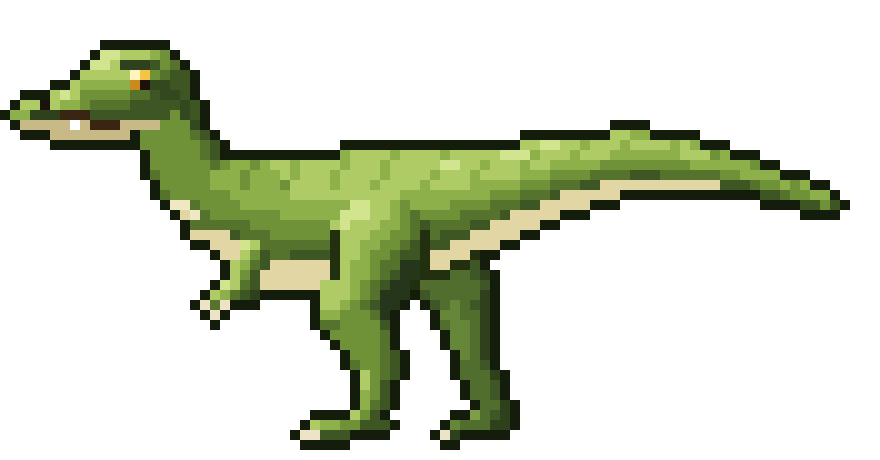
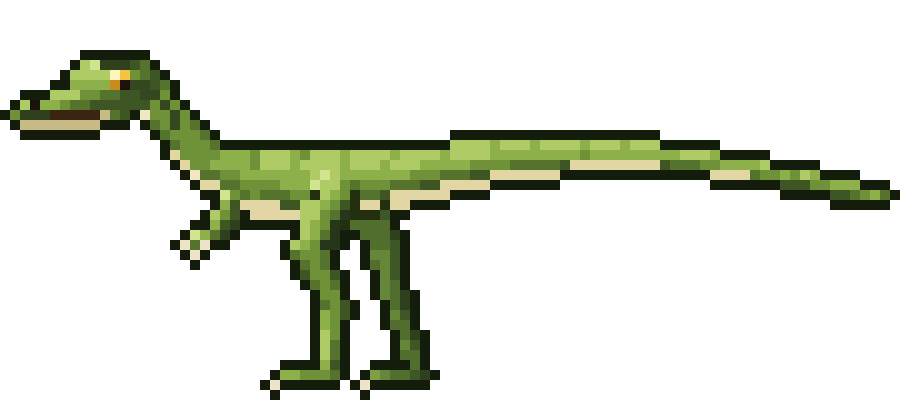
Compsognathus aux vraies proportions : corps fin (≈7 % de la longueur), cou mince, longues pattes fines, queue ≈ 2/3, grands yeux

Changed region(s): [[0.0, 0.06, 1.0, 1.0]]

diff --git a/index.html b/index.html
@@ -15,7 +15,7 @@
 <link rel="preconnect" href="https://fonts.googleapis.com">
 <link rel="preconnect" href="https://fonts.gstatic.com" crossorigin>
 <link href="https://fonts.googleapis.com/css2?family=Press+Start+2P&family=Public+Sans:wght@400;500;600;700;800&display=swap" rel="stylesheet">
-<link rel="stylesheet" href="style.css?v=78">
+<link rel="stylesheet" href="style.css?v=79">
 <link rel="stylesheet" href="https://cdn.jsdelivr.net/npm/katex@0.16.11/dist/katex.min.css">
 <script src="https://cdn.jsdelivr.net/npm/katex@0.16.11/dist/katex.min.js"></script>
 <script src="https://cdn.jsdelivr.net/npm/katex@0.16.11/dist/contrib/auto-render.min.js"></script>
@@ -44,16 +44,16 @@
 </div>
 <div id="app"></div>
 <div class="toast-stack" id="toastStack"></div>
-<script src="js/01-core.js?v=181"></script>
-<script src="js/02-ia.js?v=181"></script>
-<script src="js/03-podcast-methodo.js?v=181"></script>
-<script src="js/04-prepa.js?v=181"></script>
-<script src="js/05-data-dinopark.js?v=181"></script>
-<script src="js/06-pages.js?v=181"></script>
-<script src="js/07-editeur-outils.js?v=181"></script>
-<script src="js/08-fenetres.js?v=181"></script>
-<script src="js/09-app.js?v=181"></script>
-<script src="js/10-calendrier-aujourdhui.js?v=181"></script>
-<script src="js/11-routeur-demarrage.js?v=181"></script>
+<script src="js/01-core.js?v=182"></script>
+<script src="js/02-ia.js?v=182"></script>
+<script src="js/03-podcast-methodo.js?v=182"></script>
+<script src="js/04-prepa.js?v=182"></script>
+<script src="js/05-data-dinopark.js?v=182"></script>
+<script src="js/06-pages.js?v=182"></script>
+<script src="js/07-editeur-outils.js?v=182"></script>
+<script src="js/08-fenetres.js?v=182"></script>
+<script src="js/09-app.js?v=182"></script>
+<script src="js/10-calendrier-aujourdhui.js?v=182"></script>
+<script src="js/11-routeur-demarrage.js?v=182"></script>
 </body>
 </html>

diff --git a/js/01-core.js b/js/01-core.js
@@ -2,7 +2,7 @@
 // Studino — stockage, images, audio, schémas
 // Fichier chargé dans l'ordre par index.html : les fichiers partagent les mêmes variables globales.
 
-  var APP_VERSION = "14.9"; // +0.1 à chaque push sur GitHub, pour que l'utilisateur puisse vérifier qu'il a bien la dernière version
+  var APP_VERSION = "15.0"; // +0.1 à chaque push sur GitHub, pour que l'utilisateur puisse vérifier qu'il a bien la dernière version
   // Installation sur l'écran d'accueil : Chrome/Edge/Android proposent l'installation par un événement
   // qu'on garde pour le bouton des paramètres ; l'iPhone n'en a pas, on explique la marche à suivre.
   var installPromptEvent = null;

diff --git a/sw.js b/sw.js
@@ -2,7 +2,7 @@
 // Pages, scripts et styles : toujours la version en ligne d'abord (pour avoir les mises à jour),
 // la copie gardée seulement si le réseau ne répond pas. Images et sons : la copie gardée d'abord.
 // Les autres sites (IA Gemini, bibliothèques) ne passent pas par ici.
-var CACHE = "studino-v15"; // à changer quand les images changent : les anciennes copies en cache sont supprimées
+var CACHE = "studino-v16"; // à changer quand les images changent : les anciennes copies en cache sont supprimées
 
 self.addEventListener("install", function () { self.skipWaiting(); });
 self.addEventListener("activate", function (e) {
